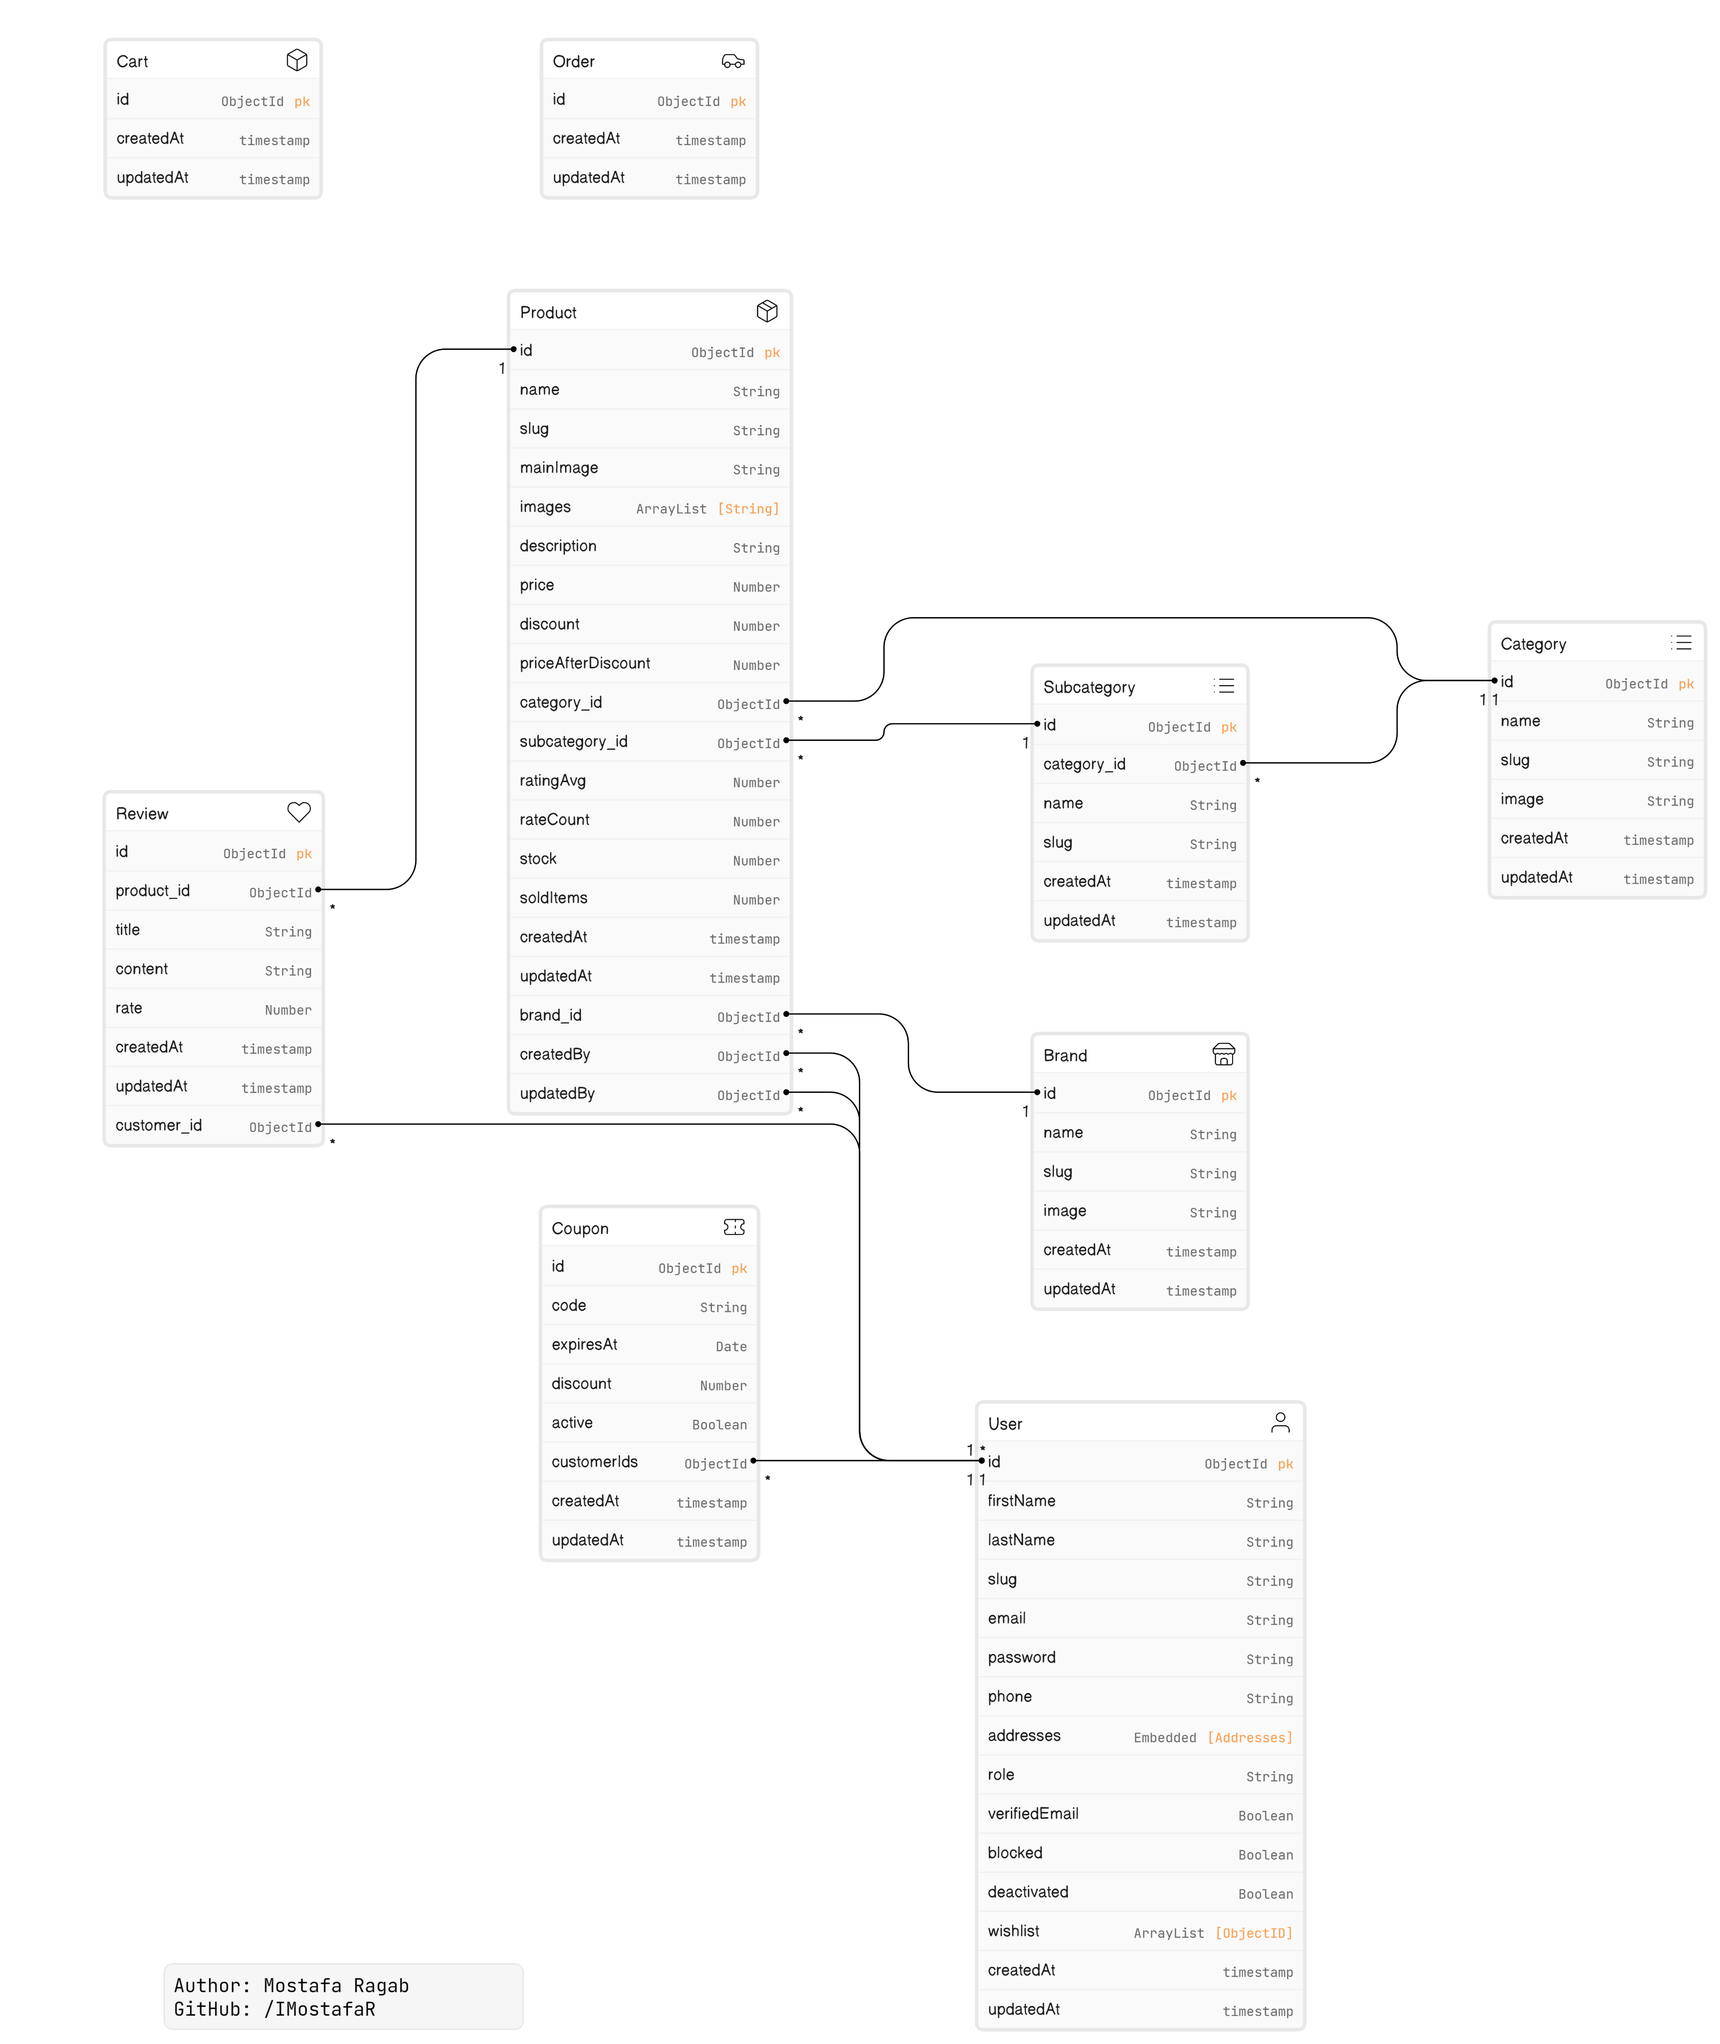
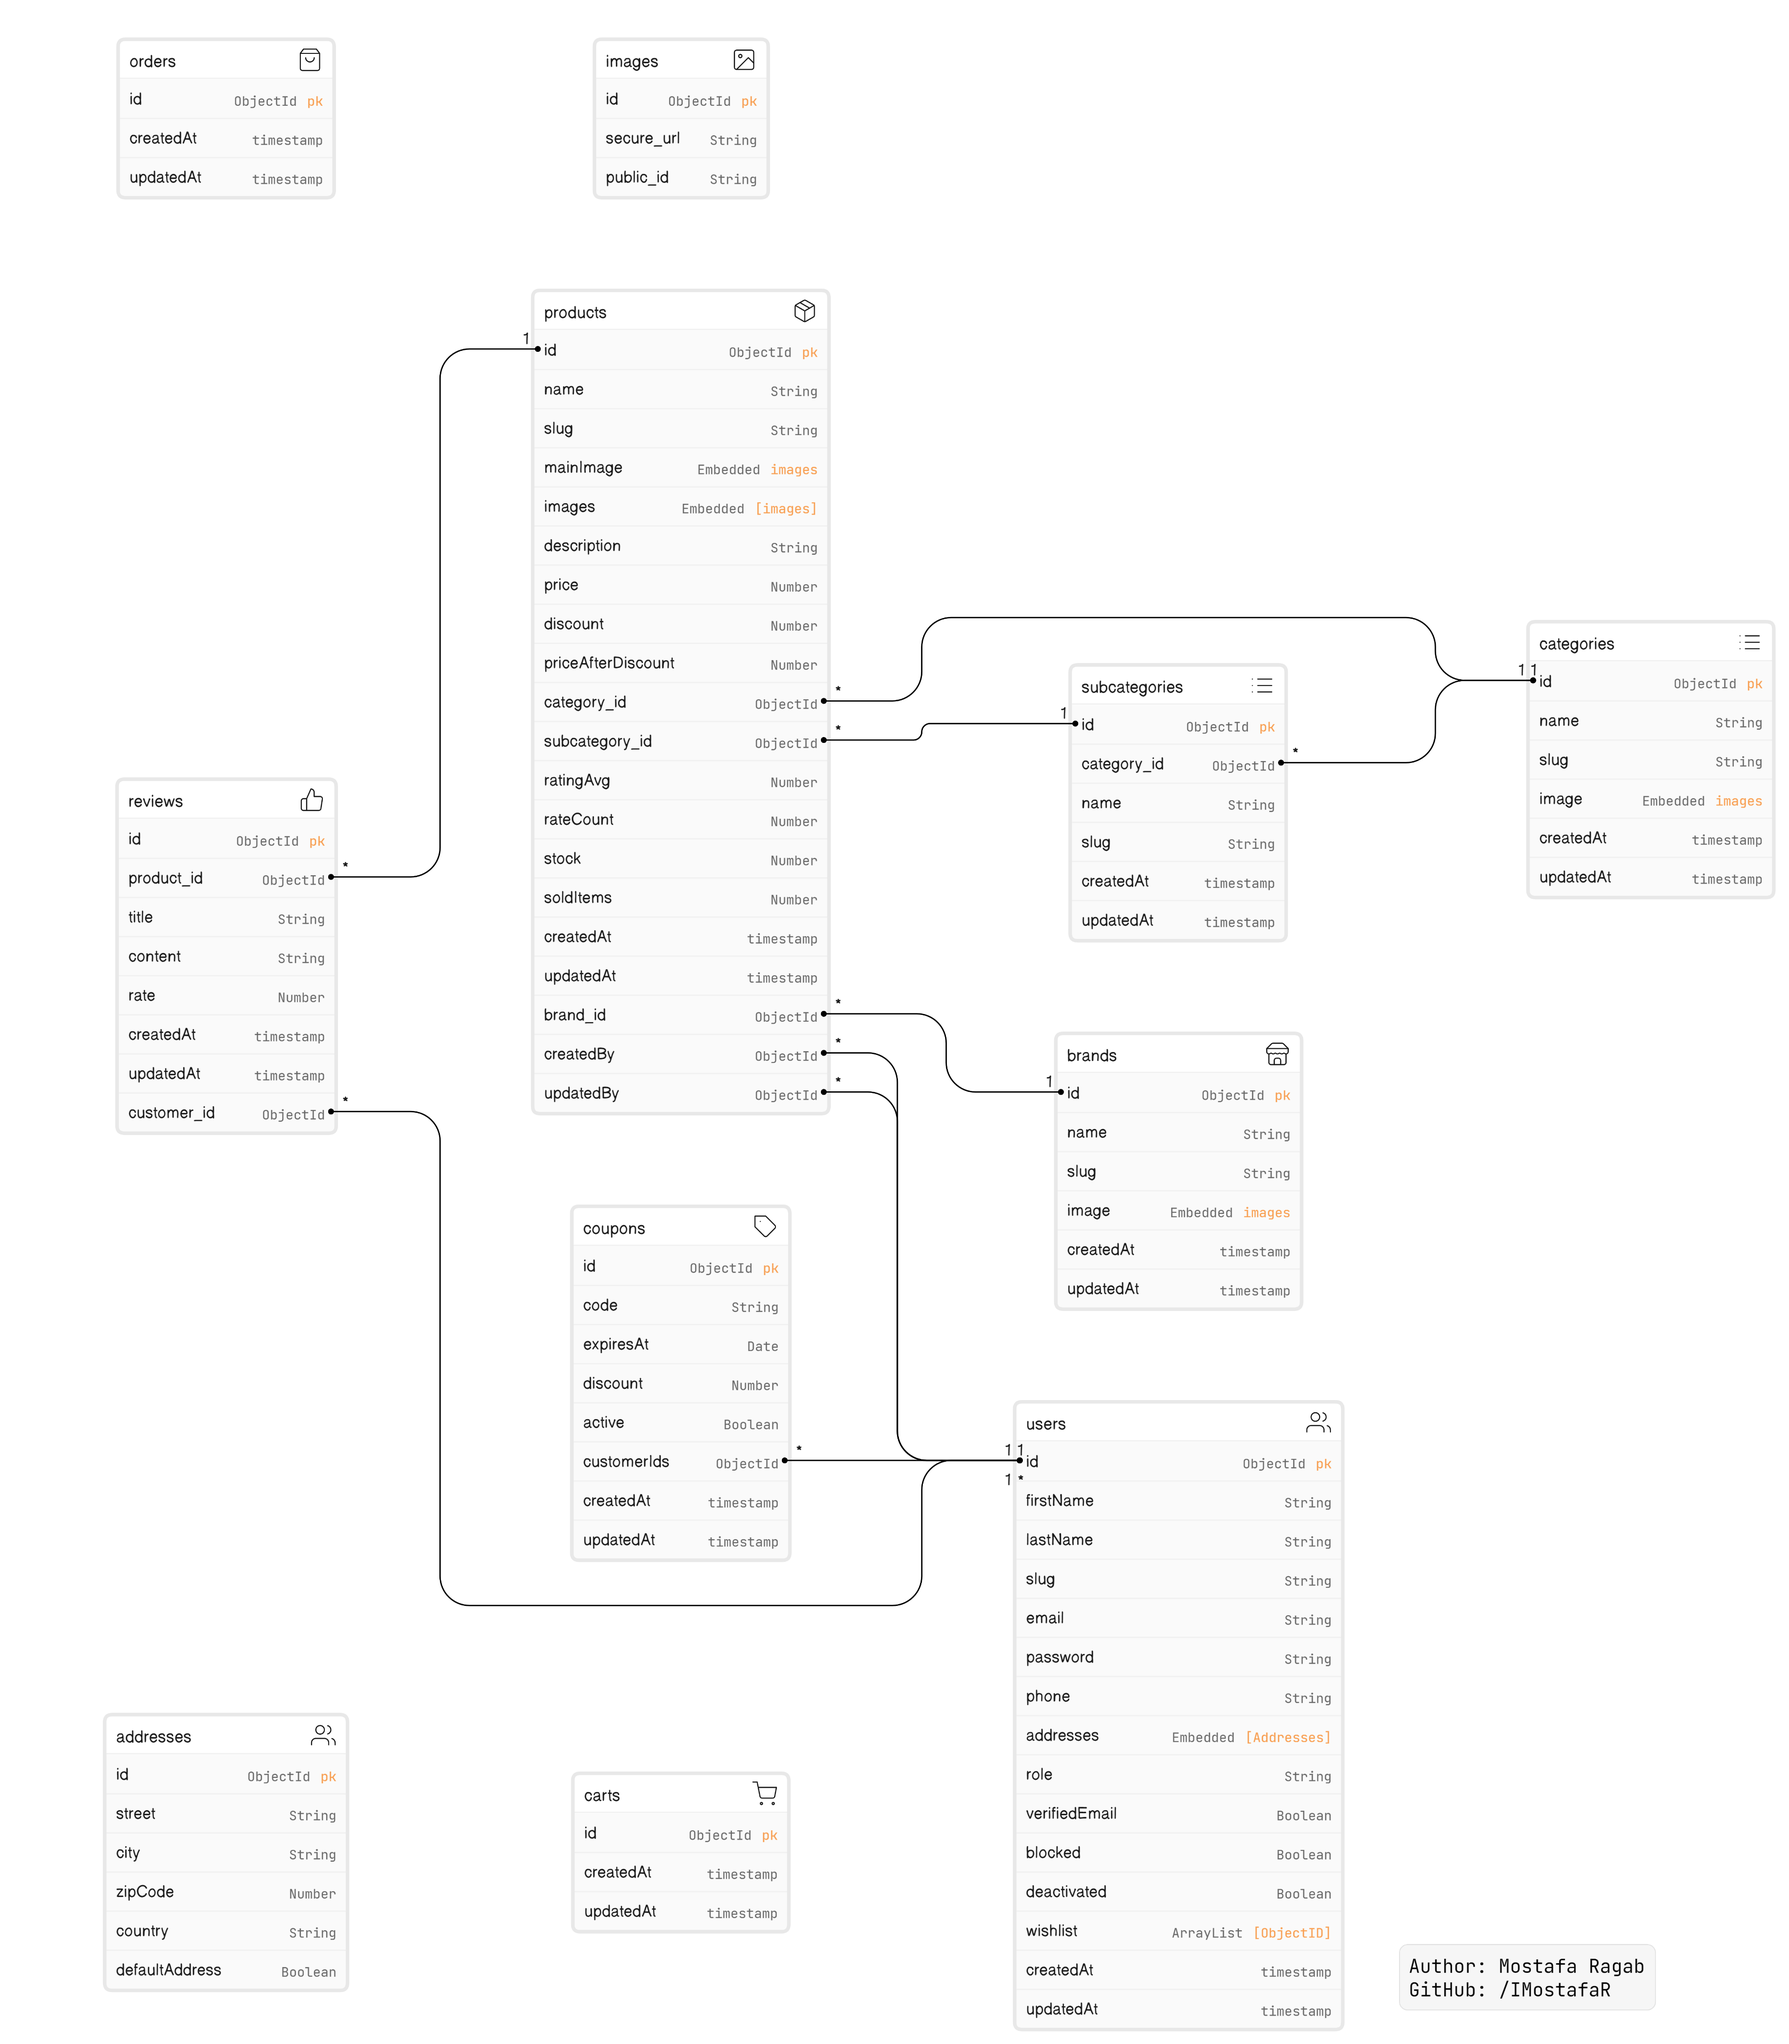
edit DB analysis

diff --git a/README.md b/README.md
@@ -50,34 +50,40 @@ This is an e-commerce-Node.js application built with Express.js, Mongoose, and M
 
 ![](./ERD.png)
 
-1. Category:
+1. Image:
+
+   - \_id => ObjectId (Automatically generated primary key)
+   - secure_url => String
+   - public_id => String
+
+2. Category:
 
    - \_id => ObjectId (Automatically generated primary key)
    - name => String
    - slug => String
-   - image => String
+   - image => Embedded Image document
 
-2. Subcategory:
+3. Subcategory:
 
    - \_id => ObjectId (Automatically generated primary key)
    - name => String
    - slug => String
    - category_id: ObjectId (Reference to Category)
 
-3. Brand:
+4. Brand:
 
    - \_id => ObjectId (Automatically generated primary key)
    - name => String
    - slug => String
-   - image => String
+   - image => Embedded Image document
 
-4. Product:
+5. Product:
 
    - \_id => ObjectId (Automatically generated primary key)
    - name => String
    - slug => String
-   - mainImage => String
-   - images => [String]
+   - mainImage => Embedded Image document
+   - images => [Embedded Image documents]
    - description => String
    - price => Number
    - discount => Number
@@ -92,7 +98,7 @@ This is an e-commerce-Node.js application built with Express.js, Mongoose, and M
    - createdBy: ObjectId (Reference to User)
    - updatedBy: ObjectId (Reference to User)
 
-5. Review:
+6. Review:
 
    - \_id => ObjectId (Automatically generated primary key)
    - title => String
@@ -101,7 +107,7 @@ This is an e-commerce-Node.js application built with Express.js, Mongoose, and M
    - product_id: ObjectId (Reference to Product)
    - customer_id: ObjectId (Reference to User)
 
-6. Address:
+7. Address:
 
    - \_id => ObjectId (Automatically generated primary key)
    - street => String
@@ -110,7 +116,7 @@ This is an e-commerce-Node.js application built with Express.js, Mongoose, and M
    - country => String
    - defaultAddress => Boolean
 
-7. User:
+8. User:
 
    - \_id => ObjectId (Automatically generated primary key)
    - firstName => String
@@ -126,21 +132,21 @@ This is an e-commerce-Node.js application built with Express.js, Mongoose, and M
    - deactivated => Boolean
    - wishlist: [ObjectID] (References to Products)
 
-8. Cart:
+9. Cart:
 
    - \_id => ObjectId (Automatically generated primary key)
      **More attributes will be added later**
 
-9. Coupon:
+10. Coupon:
 
-   - \_id => ObjectId (Automatically generated primary key)
-   - code => String
-   - expiresAt => Date
-   - discount => Number
-   - active => Boolean
-   - customerIds: [ObjectID] (References to Users)
+    - \_id => ObjectId (Automatically generated primary key)
+    - code => String
+    - expiresAt => Date
+    - discount => Number
+    - active => Boolean
+    - customerIds: [ObjectID] (References to Users)
 
-10. Order:
+11. Order:
 
     - \_id => ObjectId (Automatically generated primary key)
       **More attributes will be added later**
